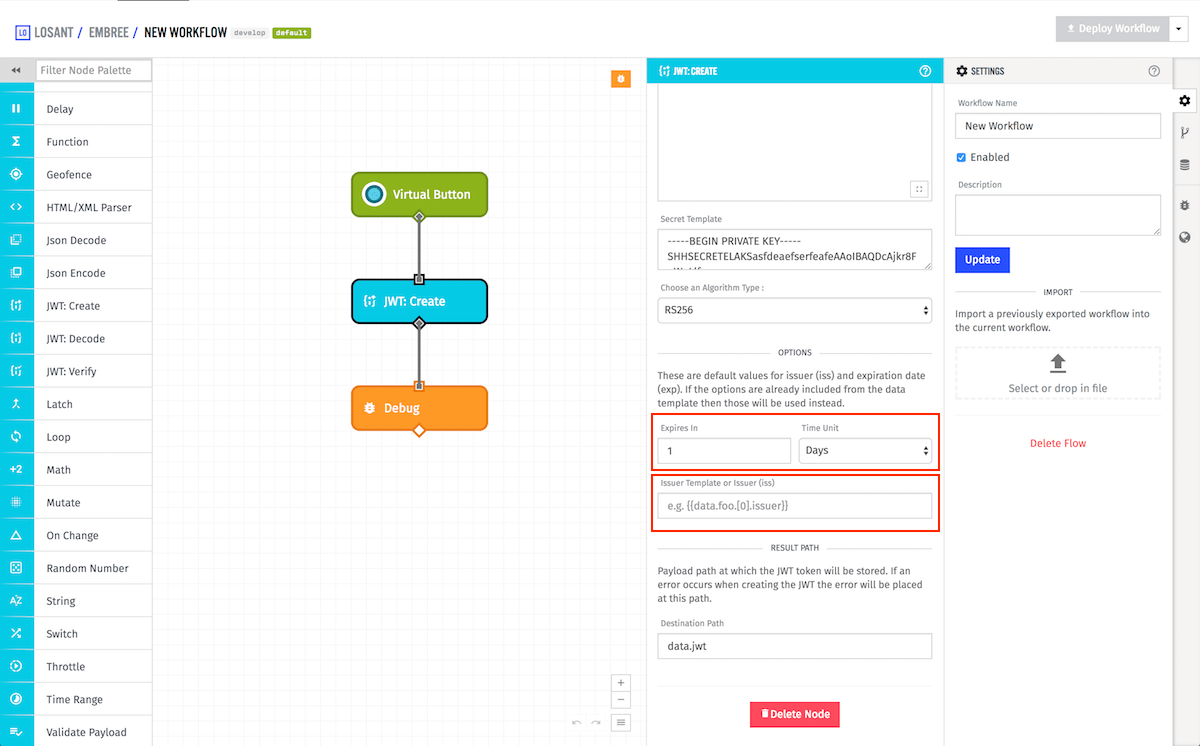
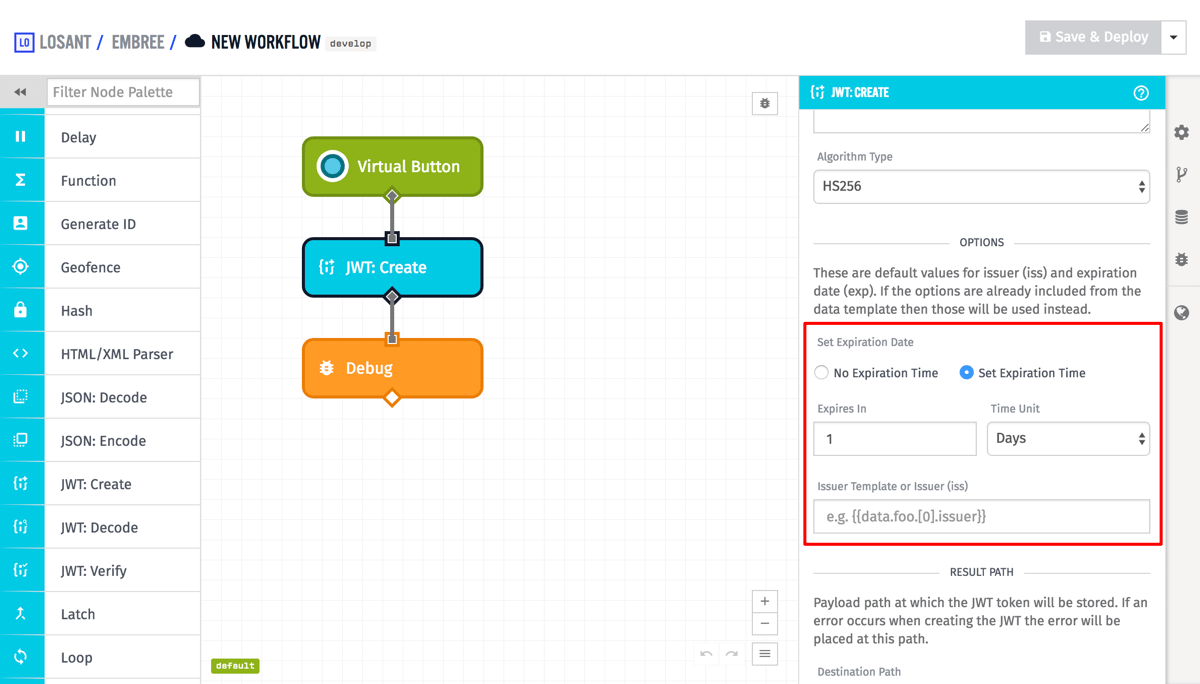
update jwt options

diff --git a/docs/workflows/logic/jwt-create.md b/docs/workflows/logic/jwt-create.md
@@ -34,7 +34,7 @@ The JWT: Create Node has one optional output field. The `Destination Path` field
 
 If any of these options are given in the `JSON Template` field, they will **not** be overwritten by these options. These options are your defaults.
 
-* `Expires In` - Given a number and the time unit to create an expiration date. This will not be used if `exp` exists in the `JSON Template`.
+* `Expires In` - Given a number and the time unit to create an expiration date. This will not be used if `exp` exists in the `JSON Template`. If you choose `No Expiration Time`, and `exp` is not in the `JSON Template`, the generated token will never expire.
 
 * `Issuer Template` - A string or payload template that will used as the issuser. This will not be used if `iss` exists in the `JSON Template`.
 
